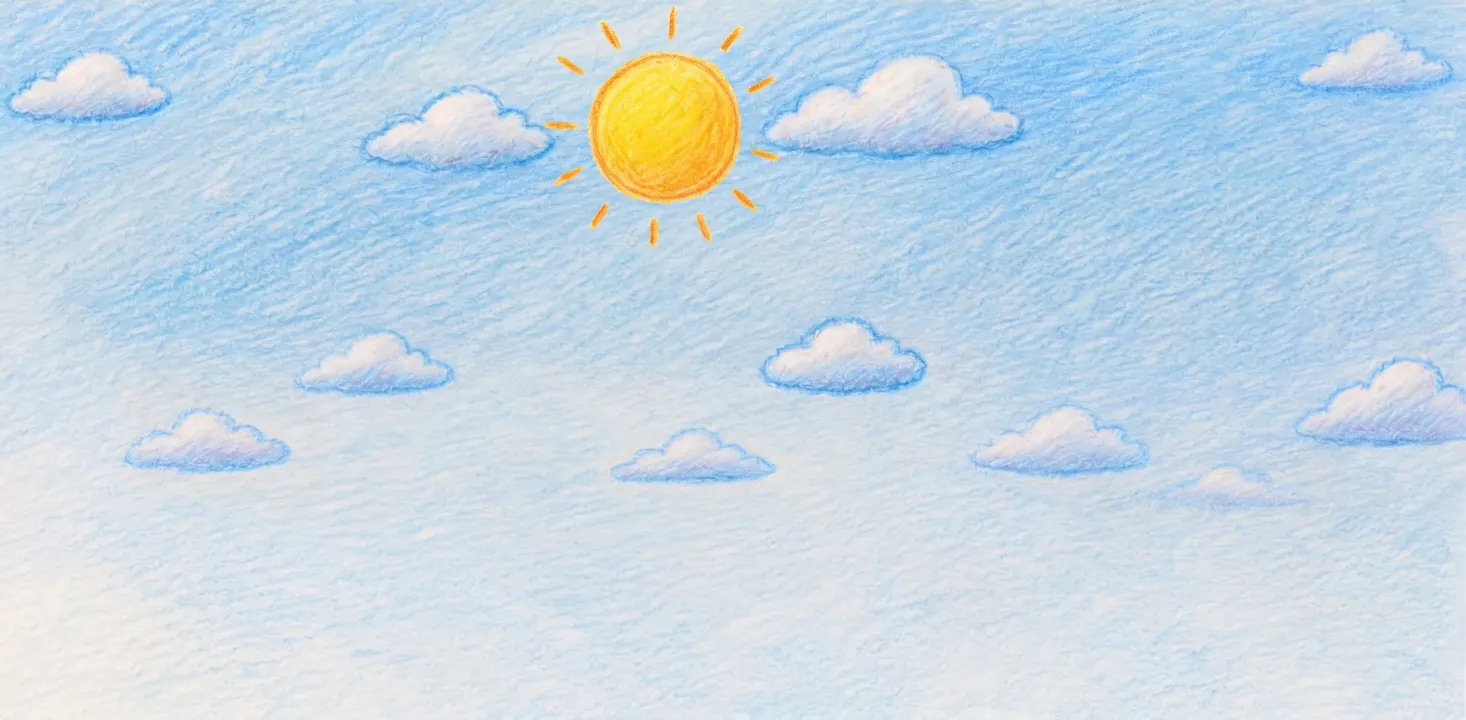
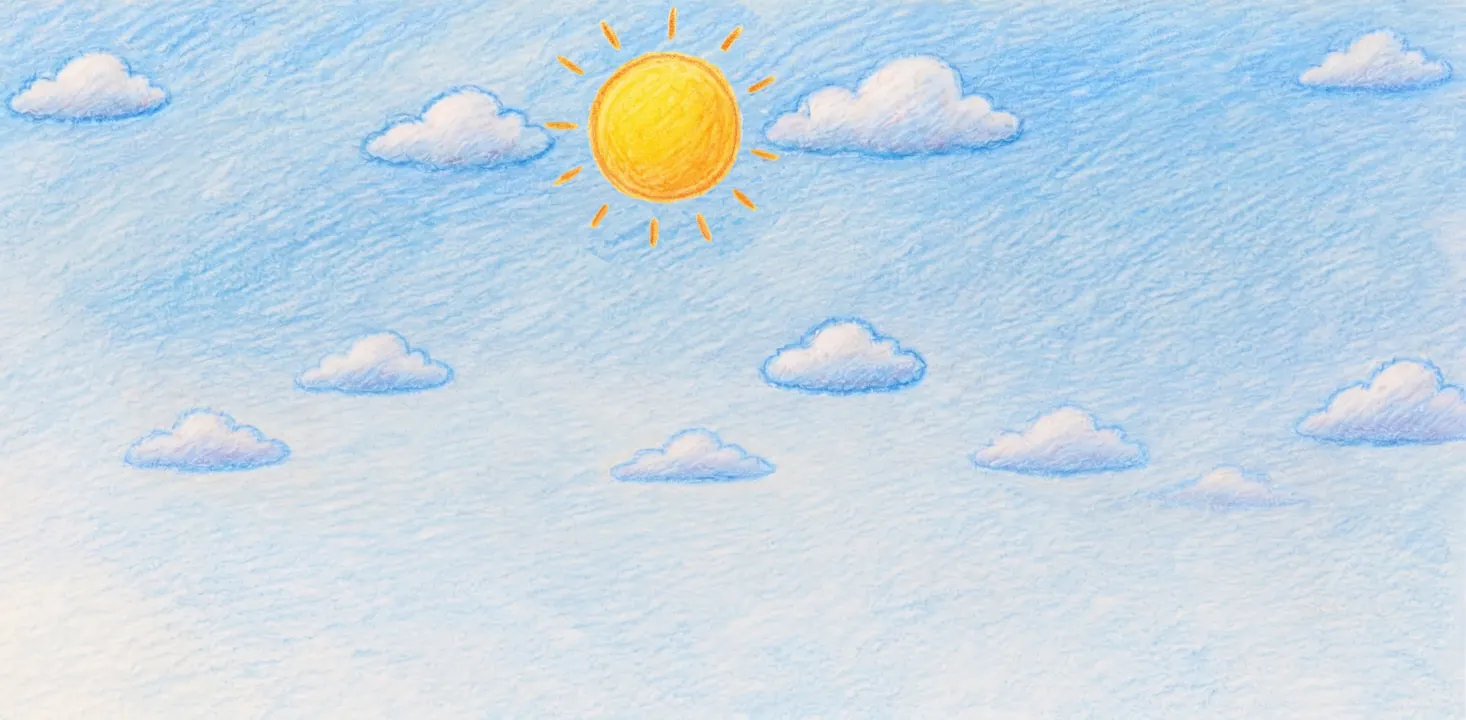
Niveau 0 : soleil sans liseré, herbe sans coupures, montagnes sans taches blanches
- soleil : détourage serré, papier blanc autour retiré du ciel, halo plus doux ;
- herbe : ondulation par bandes horizontales (le pied fixe, le haut penche), plus
  de coupures verticales dans les brins ;
- montagnes : le papier blanc collé au ciel au-dessus de la crête devient transparent.

Claude-Session: https://claude.ai/code/session_018pqLJwER3YsHJdGwSo7QfH

Changed region(s): [[0.3377, 0.0, 0.5218, 0.1528], [0.399, 0.2444, 0.5218, 0.3667], [0.3377, 0.1833, 0.3683, 0.2139]]

diff --git a/js/niveau0.js b/js/niveau0.js
@@ -385,24 +385,29 @@ function layerBlend(i, f, x, y, w, h, part = 0.22) {
 const body = buildBallBody(2);
 let time = 0;
 
+/**
+ * L'herbe ondule au vent. Elle est découpée en fines bandes HORIZONTALES (pas verticales :
+ * plus de coupures dans les brins) ; chaque bande glisse de côté d'autant plus qu'elle est
+ * haute, le pied ne bouge pas. Le souffle varie lentement (rafales douces).
+ */
 function drawGrass() {
   const i = img['plan1-herbe'];
   if (!ok(i)) return;
-  const f = 1.3, s = cam.scale, scale = WW / 2932 * 1.0;
+  const f = 1.3, s = cam.scale, scale = WW / 2932;
   const w = (i.naturalWidth / 0.8) * scale, h = (i.naturalHeight / 0.8) * scale;
-  const base = WH + 70; // le pied de l'herbe, un peu sous le bas de l'écran
-  const vh = H / s, top = base - h;
+  const base = WH + 70, top = base - h, vh = H / s;
   const ox = -cam.x * f, oy = -(cam.y - (WH - vh)) * f - (WH - vh);
-  const SL = 24, iw = i.naturalWidth, sc = iw / w;
-  for (let sx = Math.floor((-ox) / SL) * SL; sx + ox < W / s + SL; sx += SL) {
-    // pente des brins à cet endroit : un souffle qui passe d'une touffe à l'autre
-    const k = 0.13 * Math.sin(time * 1.4 - sx * 0.004) + 0.05 * Math.sin(time * 2.9 - sx * 0.012) + 0.05;
-    const tile = Math.floor(sx / w), u = sx - tile * w, flip = ((tile % 2) + 2) % 2 === 1;
-    const src = flip ? mirror(i) : i, sw = Math.min(SL, w - u);
-    ctx.save();
-    ctx.setTransform(s, 0, -k * s, s, k * s * (base + oy), 0);
-    ctx.drawImage(src, u * sc, 0, sw * sc, i.naturalHeight, sx + ox, top + oy, sw + 0.7, h);
-    ctx.restore();
+  const gust = 0.09 * Math.sin(time * 1.3) + 0.04 * Math.sin(time * 2.7 + 1) + 0.02 * Math.sin(time * 5.1) + 0.03;
+  const ROW = 3, ih = i.naturalHeight, sc = ih / h;
+  const k0 = Math.floor(-ox / w) - 1, k1 = Math.ceil((W / s - ox) / w);
+  for (let y = 0; y < h; y += ROW) {
+    const lift = (h - y) / h; // 1 en haut, 0 au pied
+    const dx = gust * h * lift * lift;
+    const rh = Math.min(ROW, h - y);
+    for (let k = k0; k <= k1; k++) {
+      const src = ((k % 2) + 2) % 2 === 1 ? mirror(i) : i;
+      ctx.drawImage(src, 0, y * sc, i.naturalWidth, rh * sc, (ox + k * w + dx) * s, (top + oy + y) * s, w * s + 1, rh * s + 0.6);
+    }
   }
 }
 
@@ -433,9 +438,9 @@ function drawSky() {
   const sun = img.soleil, g = geo.soleil;
   const cx = (sx + g.cx * k) * s, cy = (sy + g.cy * (hh / WH)) * s;
   const pulse = 0.5 + 0.5 * Math.sin(time * 1.6), R0 = 150 * k * s;
-  const halo = ctx.createRadialGradient(cx, cy, R0 * 0.6, cx, cy, R0 * (2.1 + 0.25 * pulse));
-  halo.addColorStop(0, `rgba(255,236,150,${0.35 + 0.15 * pulse})`);
-  halo.addColorStop(1, 'rgba(255,236,150,0)');
+  const halo = ctx.createRadialGradient(cx, cy, R0 * 0.9, cx, cy, R0 * (1.7 + 0.2 * pulse));
+  halo.addColorStop(0, `rgba(255,214,90,${0.16 + 0.1 * pulse})`);
+  halo.addColorStop(1, 'rgba(255,214,90,0)');
   ctx.fillStyle = halo;
   ctx.fillRect(cx - R0 * 3, cy - R0 * 3, R0 * 6, R0 * 6);
   if (ok(sun)) {

diff --git a/tools/animer-niveau0.py b/tools/animer-niveau0.py
@@ -101,6 +101,16 @@ r2 = ridge_of(img2)
 solid = (yy >= r2[None, :] + 5)
 a = np.maximum(a, cv2.GaussianBlur(solid.astype(np.float32), (0, 0), 1.2))
 c = np.where(solid[..., None], img2, c)
+# papier blanc collé au ciel (au-dessus du trait de crête) : transparent
+pale = ((img2.min(2) > 195) & ((img2.max(2) - img2.min(2)) < 40)).astype(np.uint8)
+pale = cv2.morphologyEx(pale, cv2.MORPH_OPEN, np.ones((3, 3), np.uint8))
+skyz = (a < 0.15).astype(np.uint8)
+n, lab, st, _ = cv2.connectedComponentsWithStats(pale | skyz)
+skyids = np.unique(lab[skyz > 0])
+touch = np.isin(lab, skyids[skyids > 0]) & (pale > 0)
+touch &= (yy < 900)  # seulement le long des montagnes
+a[cv2.dilate(touch.astype(np.uint8), np.ones((3, 3), np.uint8)) > 0] = 0
+solid &= ~touch
 # au-dessus de la crête : pas de poussières isolées
 spk = ((a > 0.1) & ~solid).astype(np.uint8)
 n, lab, st, _ = cv2.connectedComponentsWithStats(spk)
@@ -124,19 +134,31 @@ SUN, RS = (1330, 255), 250
 sky = cv2.imread(ciel).astype(np.float32)
 b, g, r = sky[..., 0], sky[..., 1], sky[..., 2]
 sunm = ((r - b > 45) & (r > 160)).astype(np.uint8)
-sunm = cv2.dilate(sunm, np.ones((9, 9), np.uint8))
+sunm = cv2.morphologyEx(sunm, cv2.MORPH_CLOSE, np.ones((5, 5), np.uint8))
 yy, xx = np.mgrid[0:sky.shape[0], 0:sky.shape[1]]
 near = (np.hypot(xx - SUN[0], yy - SUN[1]) < RS + 20)
 sunm = sunm.astype(bool) & near
 # sprite : le soleil seul, sur fond transparent
 x0, y0 = max(0, SUN[0] - RS - 20), max(0, SUN[1] - RS - 20)
 crop = sky[y0:SUN[1] + RS + 20, x0:SUN[0] + RS + 20]
-a = cv2.GaussianBlur(sunm[y0:SUN[1] + RS + 20, x0:SUN[0] + RS + 20].astype(np.float32), (0, 0), 1.5)
+a = cv2.GaussianBlur(cv2.erode(sunm[y0:SUN[1] + RS + 20, x0:SUN[0] + RS + 20].astype(np.uint8), np.ones((3, 3), np.uint8)).astype(np.float32), (0, 0), 1.0)
 spr = np.dstack([crop[..., ::-1], a * 255])
 spr = cv2.resize(spr, (round(spr.shape[1] * S5), round(spr.shape[0] * S5)), interpolation=cv2.INTER_AREA)
 save('soleil.webp', spr, q=85)
 geo['soleil'] = {'x': SUN[0] - x0, 'y': SUN[1] - y0, 'cx': SUN[0], 'cy': SUN[1]}
-# le ciel garde son soleil : le soleil animé se pose exactement dessus
+# le ciel garde son soleil (le soleil animé se pose dessus) mais perd le papier blanc autour
+ring = (np.hypot(xx - SUN[0], yy - SUN[1]) < RS + 40)
+pale = ring & ~sunm & ((b - r) < 40) & (sky.min(2) > 175)
+pale = cv2.dilate(pale.astype(np.uint8), np.ones((5, 5), np.uint8)).astype(bool) & ~sunm
+fill = sky.copy(); todo = pale.copy()
+for dx in (620, -620, 820, -820, 1000):
+    srcs = np.roll(sky, dx, axis=1); bad = np.roll(pale | sunm, dx, axis=1)
+    okp = todo & ~bad; fill[okp] = srcs[okp]; todo &= ~okp
+w = cv2.GaussianBlur(pale.astype(np.float32), (0, 0), 2)[..., None]
+skyc = sky * (1 - w) + fill * w
+p5 = cv2.resize(skyc, (round(sky.shape[1] * S5), round(sky.shape[0] * S5)), interpolation=cv2.INTER_AREA)
+Image.fromarray(p5[..., ::-1].clip(0, 255).astype(np.uint8)).save(out + 'plan5-ciel.webp', quality=78, method=6)
+print('plan5-ciel.webp : papier autour du soleil retiré', int(pale.sum()))
 geo['moulin'] = {'hub': [HUB[0], HUB[1]], 'aile': [blade.shape[1], blade.shape[0]], 'echelle': S3,
                  'foin': [[372, 812], [743, 963]]}
 json.dump(geo, open(out + 'geo.json', 'w'))
